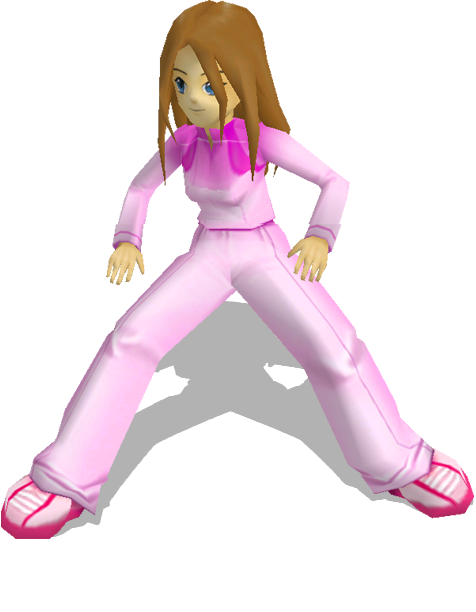
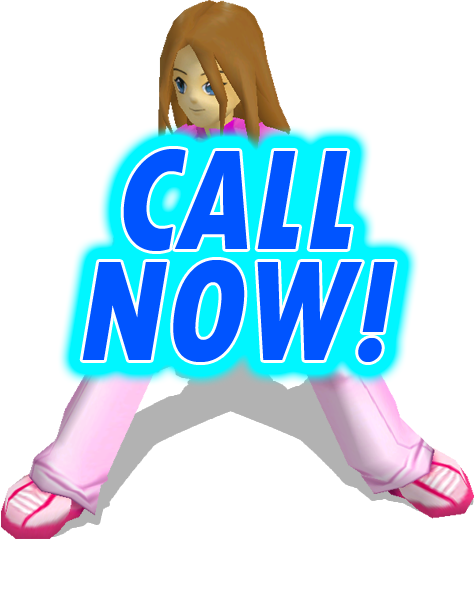
april fools build
git-svn-id: https://svn.stepmania.com/svn/trunk/stepmania@27925 822b03c2-8f45-0410-a444-95660a741a6f

Changed region(s): [[0.1176, 0.1863, 0.8824, 0.652]]

diff --git a/src/ProductInfo.h b/src/ProductInfo.h
@@ -12,7 +12,7 @@
 #define PRODUCT_ID_BARE StepMania4
 
 // Version info displayed to the user
-#define PRODUCT_VER_BARE alpha1
+#define PRODUCT_VER_BARE April 1st
 
 // A unique ID for a build of an application.  This is used in crash reports and in the network code's version handling 
 #define PRODUCT_ID_VER_BARE PRODUCT_ID_BARE PRODUCT_VER_BARE
